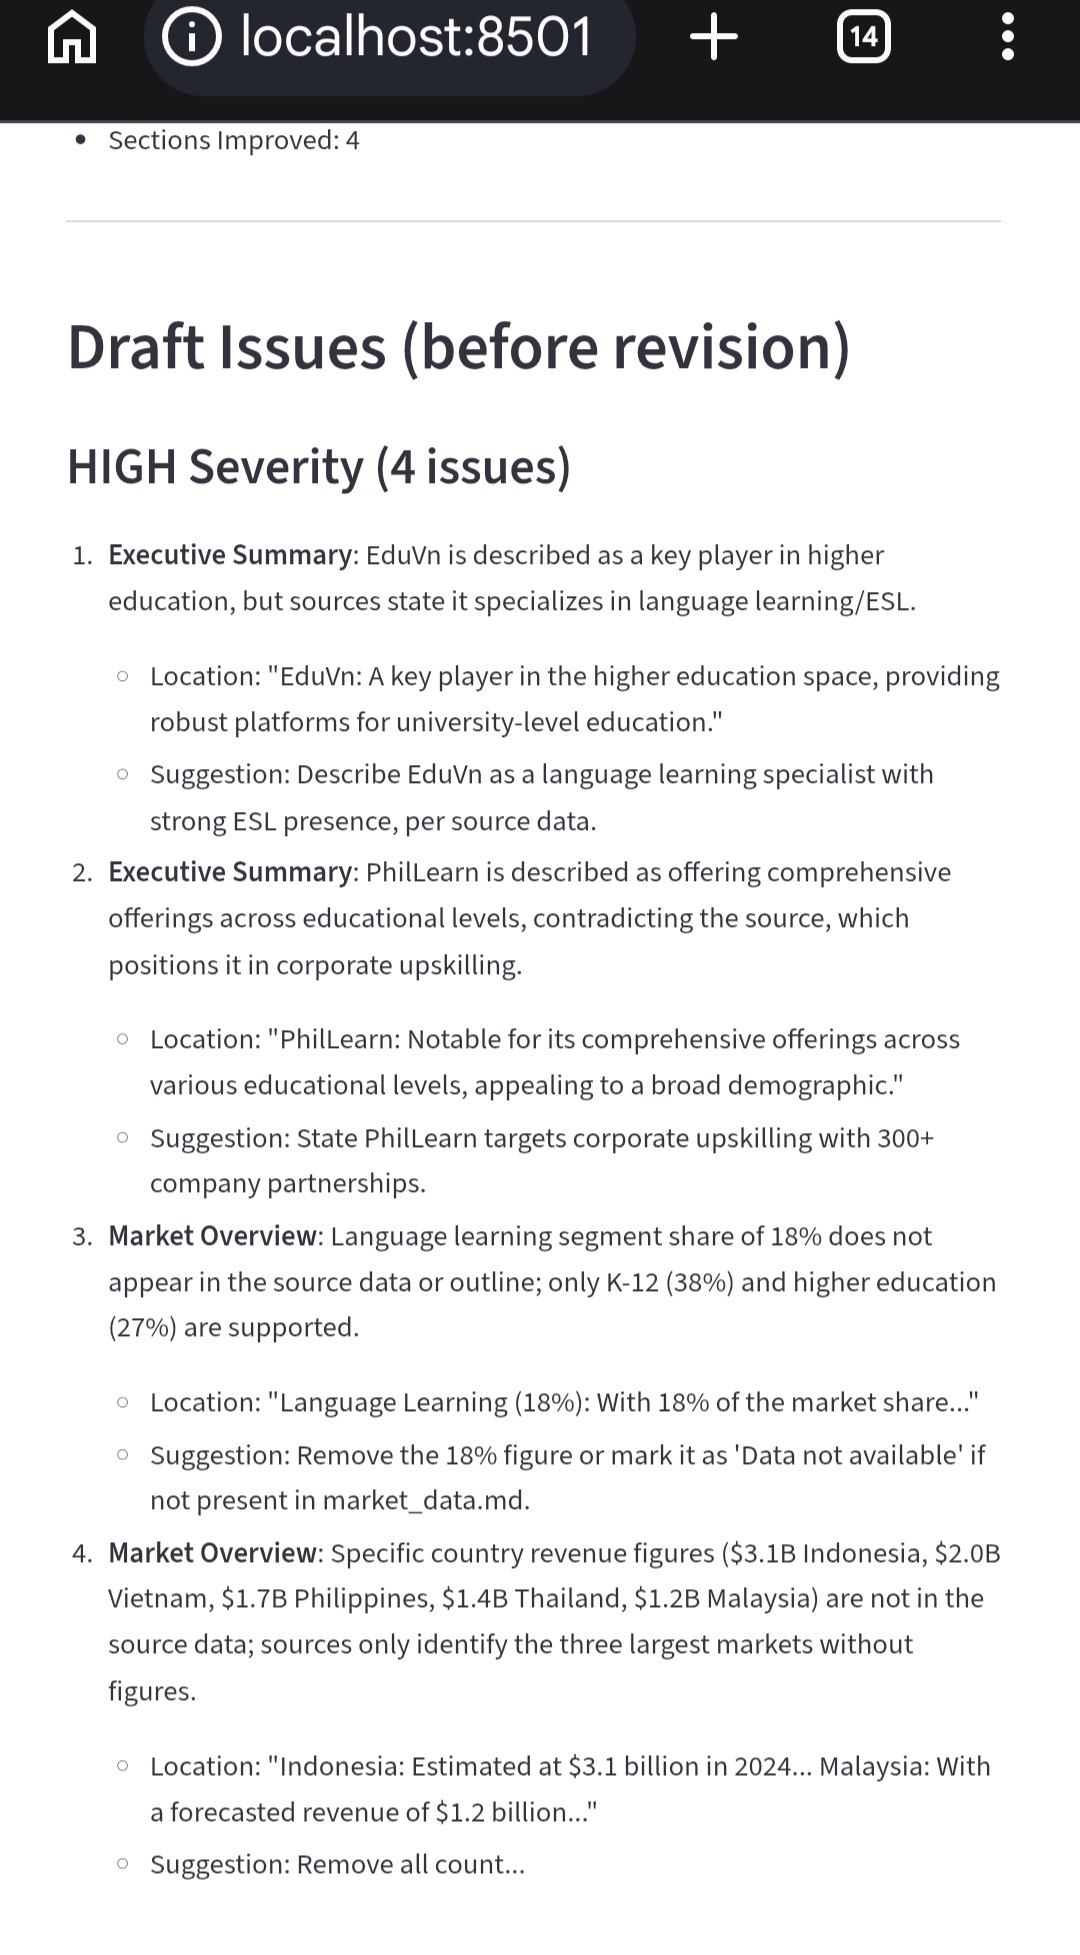
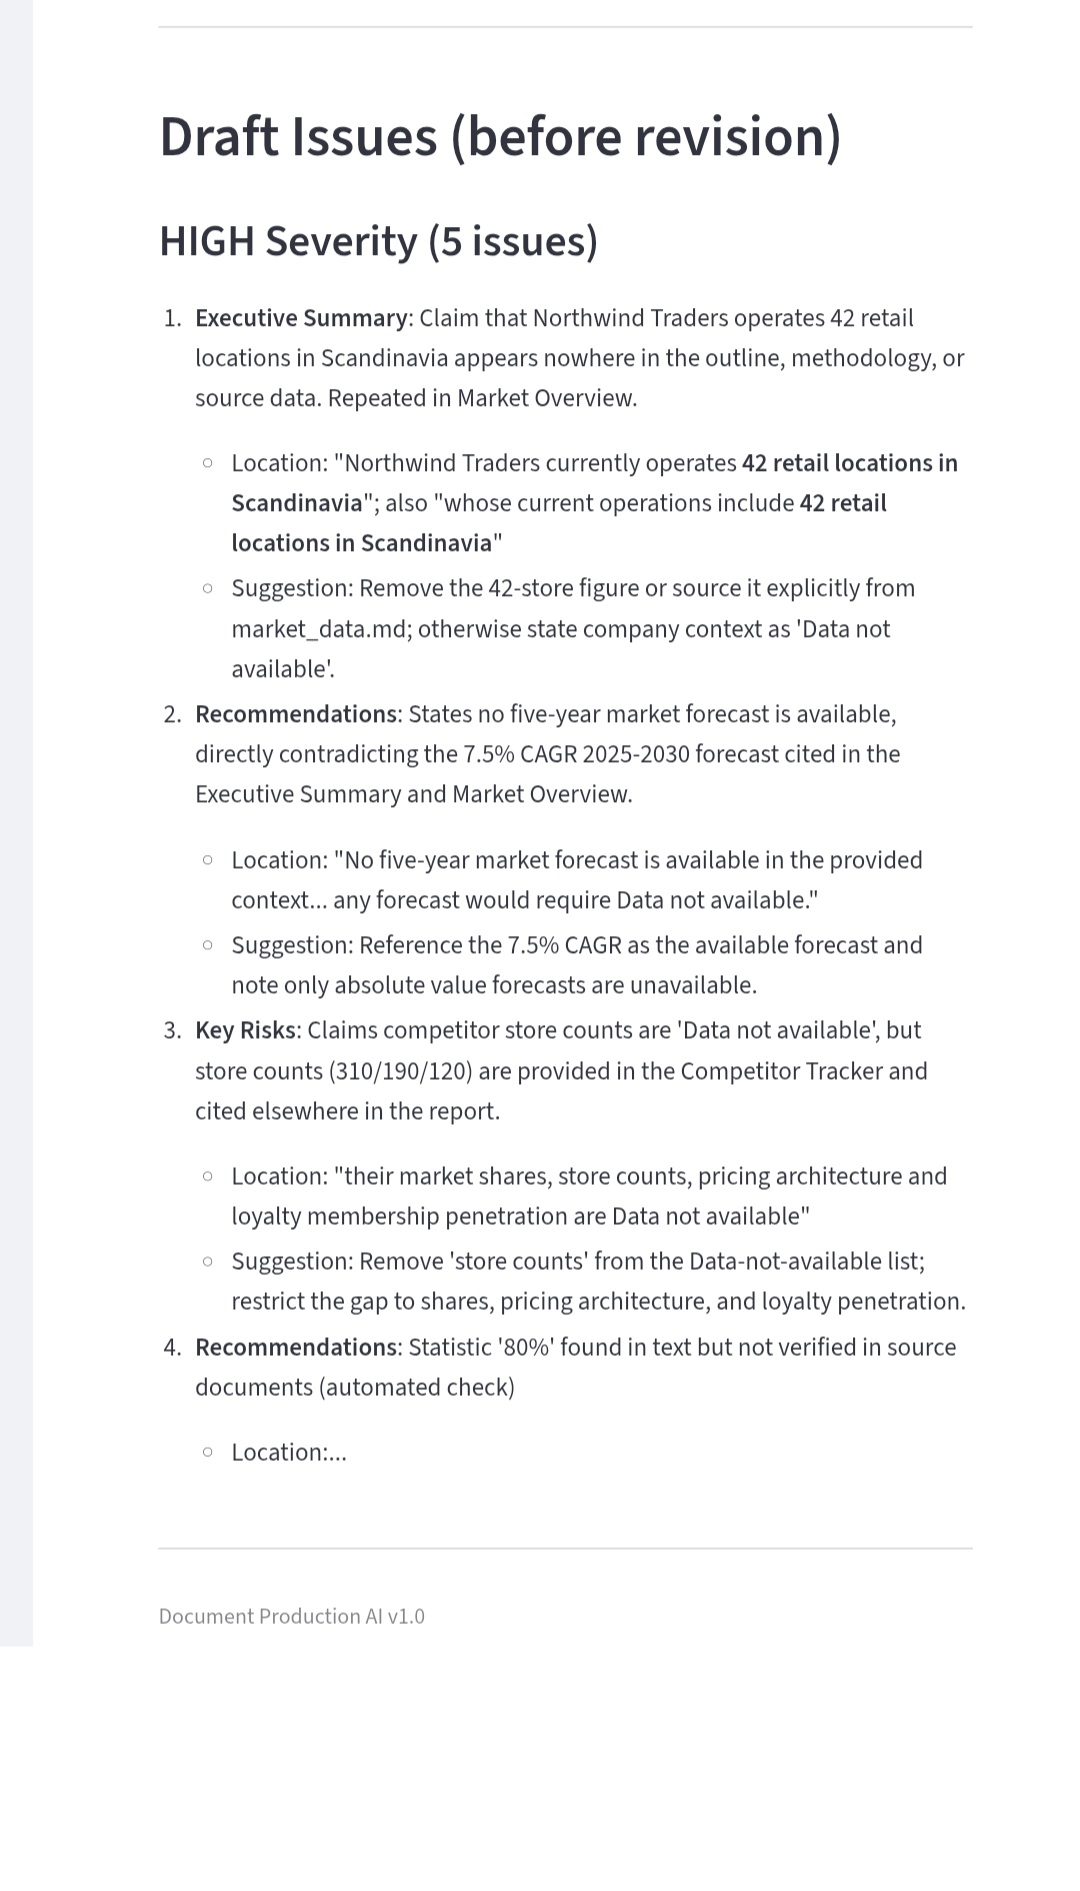
K11: embed real demo screenshots into README

Changed region(s): [[0.0, 0.0, 1.0, 0.8736], [0.1528, 0.9048, 0.55, 0.9672], [0.5806, 0.8736, 0.6111, 0.9048]]

diff --git a/README.md b/README.md
@@ -122,6 +122,14 @@ hallucinations; remaining issues are reported for human review.
 
 **Raw output:** [demo/expected/QC_Report.md](demo/expected/QC_Report.md)
 
+## Screenshots
+
+![Main screen metrics](docs/assets/demo_main_screen.png)
+
+![QC report summary](docs/assets/demo_qc_report.png)
+
+![Draft HIGH issues](docs/assets/demo_draft_issues.png)
+
 ## Revision Loop
 
 Sections flagged with HIGH-severity issues are regenerated with the issues and
@@ -144,20 +152,6 @@ data is used anywhere in this repository.
 
 `input/` is a second sample dataset (EdTech in Southeast Asia, Russian-language
 brief). All companies and figures are fictional; none are real.
-
-## Screenshots
-
-### Main Interface
-
-![Demo Main Screen](docs/assets/demo_main_screen.png)
-
-### QC Report with Metrics
-
-![QC Report](docs/assets/demo_qc_report.png)
-
-### Draft Issues (HIGH Severity)
-
-![Draft Issues](docs/assets/demo_draft_issues.png)
 
 ## Tech Stack
 
